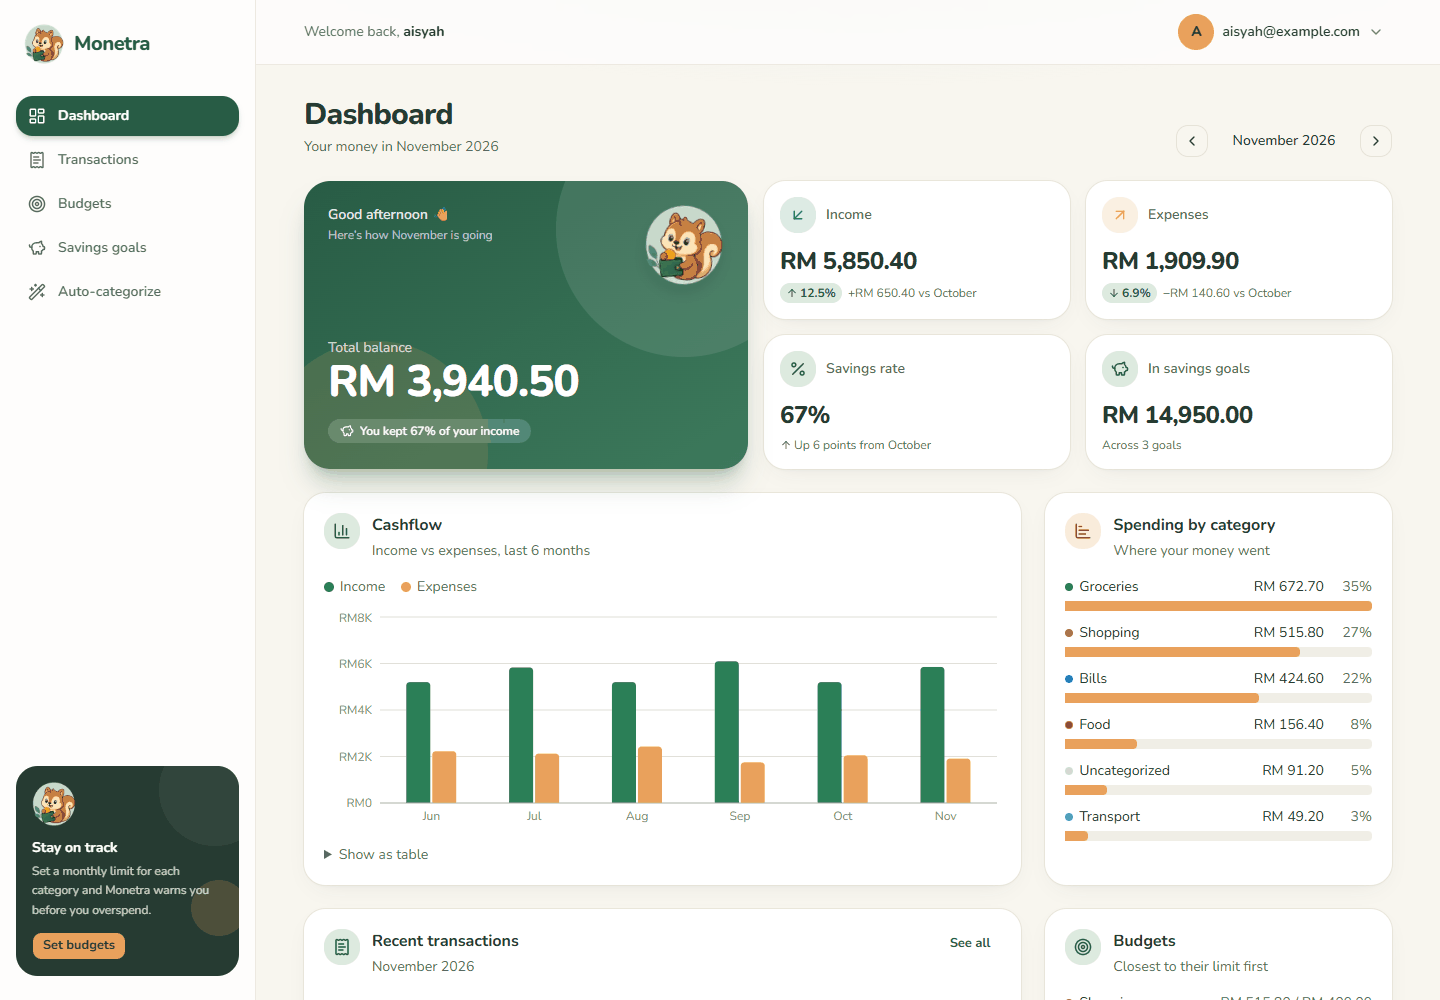
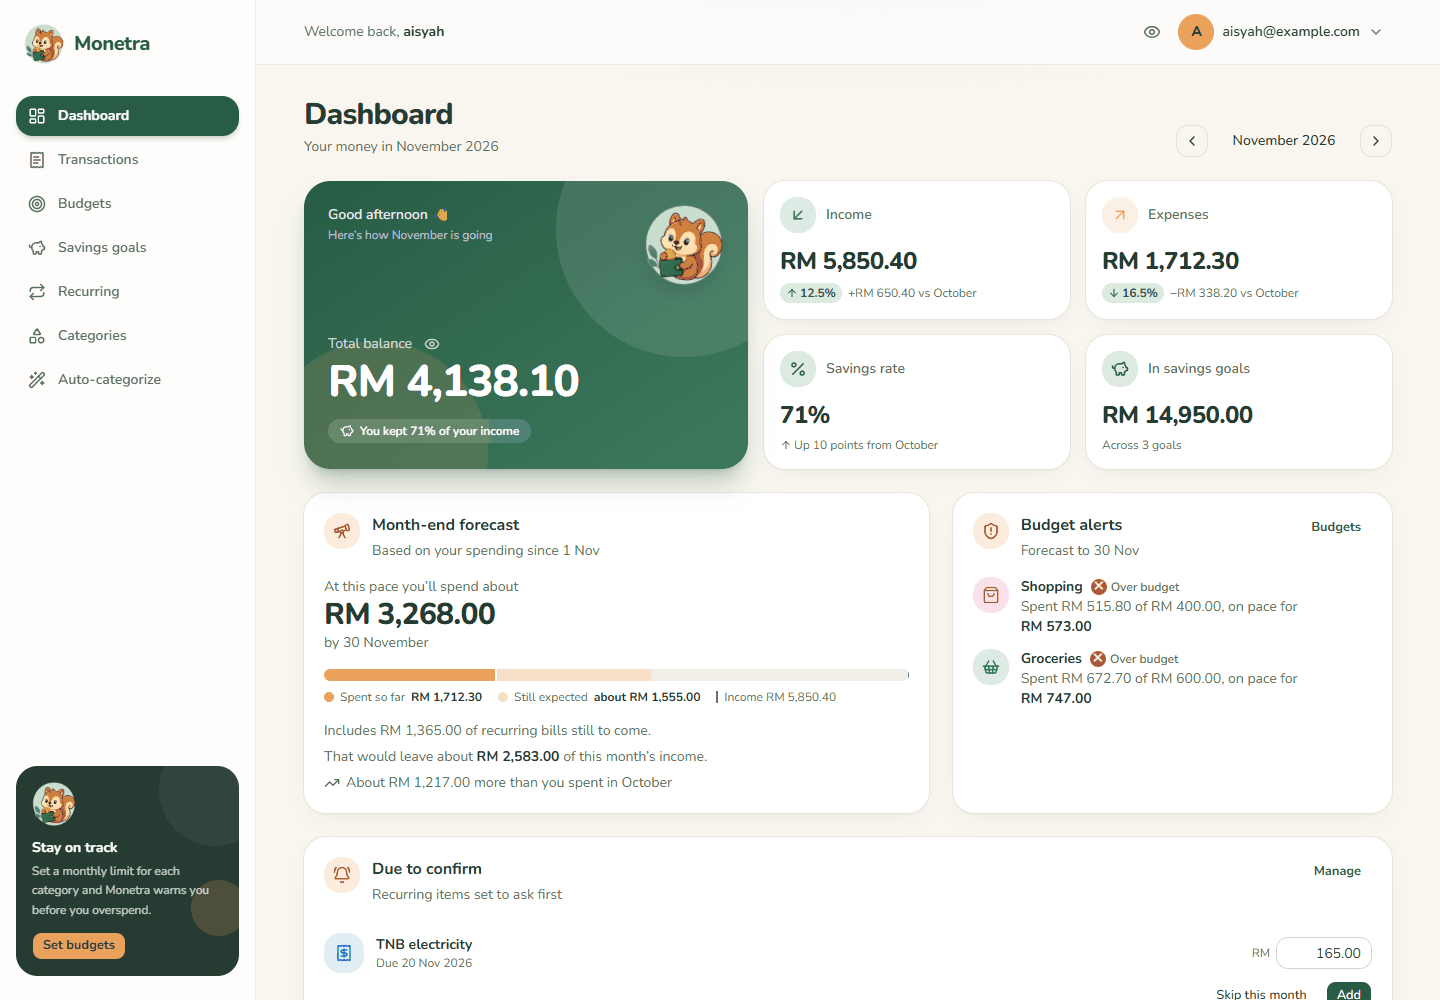
Refresh README with current features and screenshots
Regroup the features (tracking, planning, phone, comfort and privacy),
add the recurring migration note, offline testing via npm run preview,
and the updated tech stack and project structure. Replace the old
screenshots with ten new ones taken with made-up sample data, including
dark mode, the forecast, search, recurring and CSV import.

diff --git a/README.md b/README.md
@@ -3,8 +3,8 @@
 </p>
 
 <p align="center">
-  A personal expense tracker for Malaysia: log what you earn and spend in RM, set monthly budgets,
-  save towards goals, and let keyword rules categorize transactions for you.
+  A personal expense tracker for Malaysia: log what you earn and spend in RM, import bank statements,
+  set budgets, save towards goals, and see where the month is heading before it ends.
 </p>
 
 <p align="center">
@@ -14,48 +14,66 @@
 </p>
 
 <p align="center">
-  <img src="docs/screenshots/desktop-dashboard.png" alt="Monetra dashboard on desktop: balance card, income and expense tiles, cashflow chart and spending by category" width="900" />
+  <img src="docs/screenshots/desktop-dashboard.png" alt="Monetra dashboard on desktop: balance card, stat tiles, month-end forecast, budget alerts and a recurring bill to confirm" width="900" />
 </p>
 
 ## Screenshots
 
-Monetra works on desktop and phone. On a phone it can be added to the Home Screen and opens full screen like an app.
+Monetra works on desktop and phone. On a phone it installs to the Home Screen, opens full screen and keeps working offline.
 
-| Dashboard | Transactions | Budgets | Sign-out confirmation |
+| Dashboard | Month-end forecast | Search | Recurring |
 | :---: | :---: | :---: | :---: |
-| <img src="docs/screenshots/phone-dashboard.png" alt="Dashboard on a phone" width="200" /> | <img src="docs/screenshots/phone-transactions.png" alt="Transaction history with category icons" width="200" /> | <img src="docs/screenshots/phone-budgets.png" alt="Monthly budgets with progress bars" width="200" /> | <img src="docs/screenshots/phone-confirm.png" alt="Sign out confirmation dialog" width="200" /> |
+| <img src="docs/screenshots/phone-dashboard.png" alt="Dashboard on a phone" width="200" /> | <img src="docs/screenshots/phone-forecast.png" alt="Month-end forecast and budget alerts" width="200" /> | <img src="docs/screenshots/phone-search.png" alt="Searching grab across all months, with matches highlighted" width="200" /> | <img src="docs/screenshots/phone-recurring.png" alt="Recurring salary, bills and rent with auto and ask-first modes" width="200" /> |
 
-| Transactions (desktop) | Savings goals (desktop) |
-| :---: | :---: |
-| <img src="docs/screenshots/desktop-transactions.png" alt="Add transaction form beside the history list" width="440" /> | <img src="docs/screenshots/desktop-goals.png" alt="Savings goals with monthly saving plans" width="440" /> |
+| Statement import | Dark mode | Sign-in |
+| :---: | :---: | :---: |
+| <img src="docs/screenshots/phone-import.png" alt="Reviewing a bank CSV before importing, with categories filled in from rules" width="200" /> | <img src="docs/screenshots/phone-dark.png" alt="Transactions page in dark mode" width="200" /> | <img src="docs/screenshots/phone-login.png" alt="Sign-in page with Google and email options" width="200" /> |
 
 <details>
-<summary>Sign-in page</summary>
+<summary>More: dark mode on desktop, and the Categories page</summary>
 <br />
-<img src="docs/screenshots/phone-login.png" alt="Sign-in page with Google and email options" width="260" />
+<img src="docs/screenshots/desktop-dashboard-dark.png" alt="Dashboard on desktop in dark mode" width="880" />
+<br /><br />
+<img src="docs/screenshots/desktop-categories.png" alt="Categories page with a colour picker and a live icon preview" width="880" />
 </details>
 
 <sub>Screenshots use made-up sample data.</sub>
 
 ## Features
 
-- **Dashboard**: the month's balance and savings rate, income and expenses with change vs last month, a 6-month cashflow chart, spending by category, daily spending, recent transactions, budgets and goals at a glance
-- **Transactions**: add, edit and delete income and expenses, grouped by day, each with its category's icon
-- **Auto-categorization**: keyword rules (e.g. `PETRONAS` → Petrol, `GRABFOOD` → Food) pick the category as you type. Rules match whole words, can take priority over others, and can be applied to past uncategorized transactions in one go. New accounts start with rules for common Malaysian merchants
-- **Budgets**: a monthly limit per category with a progress bar, a "today" marker showing how far through the month you are, on-track / close / over status, and one-click copy from last month
-- **Savings goals**: target, deadline and progress, with how much to save each month to get there. Suggests an emergency fund of 3–6 months of your average spending
-- **Sign-in**: email and password, a magic link by email, or Google, plus password reset
-- **Installable**: add it to the Home Screen on iPhone or Android to run full screen
-- **Safe by default**: confirmation pop-ups before signing out or deleting anything, and every user can only ever read and write their own data (Postgres row-level security)
-- **Accessible charts**: the colours were checked for colour-blind readers, every chart has a "Show as table" view, and status is always shown with an icon and words, not colour alone
+### Tracking
+- **Dashboard**: the month's balance and savings rate, income and expenses with change vs last month, a 6-month cashflow chart, spending by category (tap a category to see its transactions), daily spending, recent transactions, budgets and goals
+- **Transactions**: add, edit and delete income and expenses, grouped by day with category icons. **Search** descriptions across every month, and filter by category, expense or income
+- **Import bank statements (CSV)**: works with Maybank, CIMB, Touch ’n Go eWallet and other exports. Monetra finds the columns, reads Malaysian dates and amounts (`1,234.50`, `12.00-`, `CR`/`DR`), and lets you review everything before saving. Importing the same file twice never creates duplicates
+- **Recurring transactions**: salary, rent and bills are added every month automatically, or shown on the dashboard to confirm when the amount changes (like TNB). Missed months are caught up, and nothing is ever added twice
+- **Export to CSV**: download all your data, or exactly what's on screen, for a backup or a spreadsheet. Monetra can import its own export back
+
+### Planning
+- **Month-end forecast**: "at this pace you'll spend about RM X this month", worked out from your everyday spending rate plus the recurring bills still to come
+- **Budgets**: a monthly limit per category with a "today" marker, an on-pace forecast, and **alerts before you go over**
+- **Savings goals**: target, deadline and progress, with how much to save each month. Suggests an emergency fund of 3–6 months of your average spending
+- **Categories and auto-categorization**: create, rename and recolour categories, and an icon is picked from the name. Keyword rules (e.g. `PETRONAS` → Petrol) categorize new and imported transactions, and new accounts start with rules for common Malaysian merchants
+
+### On your phone
+- **Installable**: add it to the Home Screen and it opens full screen with a splash screen and a floating tab bar
+- **Offline**: opens instantly with no signal and shows your last-loaded data. Transactions you add offline are saved on the phone and sync when you're back online
+- **Pull to refresh**, and pages that load quickly, because each page downloads only when it's opened
+
+### Comfort and privacy
+- **Dark mode**: Light, Dark or System (follows your phone)
+- **Hide amounts**: one tap turns every RM figure into `RM ••••` for using the app in public
+- **Undo** instead of "Are you sure?" for deletes. Signing out and deleting a category still ask first
+- **Private by design**: Postgres row-level security means every user can only read and write their own data. The copy kept for offline use is deleted when you sign out
+- **Accessible charts**: chart colours are checked for colour-blind readers in both light and dark mode, every chart has a "Show as table" view, and status is always shown with an icon and words
 
 ## Tech stack
 
 | Area | Tools |
 | --- | --- |
 | Frontend | [React 19](https://react.dev), TypeScript, [Vite](https://vite.dev), React Router |
-| UI | [Tailwind CSS v4](https://tailwindcss.com), [shadcn/ui](https://ui.shadcn.com) (Radix), [Lucide](https://lucide.dev) icons, Nunito font |
-| Charts | [Recharts](https://recharts.org), date-fns |
+| UI | [Tailwind CSS v4](https://tailwindcss.com), [shadcn/ui](https://ui.shadcn.com) (Radix), [Lucide](https://lucide.dev) icons, [Sonner](https://sonner.emilkowal.ski) toasts, Nunito font |
+| Charts and data | [Recharts](https://recharts.org), date-fns, [Papa Parse](https://www.papaparse.com) for CSV |
+| Offline | [vite-plugin-pwa](https://vite-pwa-org.netlify.app) (Workbox service worker) |
 | Backend | [Supabase](https://supabase.com): Postgres, Auth and row-level security |
 | Hosting | [Vercel](https://vercel.com), plus a GitHub Actions job that keeps the free Supabase project awake |
 
@@ -70,9 +88,11 @@ Monetra works on desktop and phone. On a phone it can be added to the Home Scree
 
 In the Supabase dashboard, open **SQL Editor → New query**, paste in [`supabase/schema.sql`](supabase/schema.sql) and click **Run**. This creates:
 
-- the tables (`categories`, `transactions`, `category_rules`, `budgets`, `savings_goals`)
+- the tables (`categories`, `transactions`, `category_rules`, `budgets`, `savings_goals`, `recurring_transactions`)
 - row-level security, so each user only sees their own rows
 - a trigger that gives every new user default categories and merchant rules
+
+> **Already set up from an older version?** Run [`supabase/migrations/20261127_recurring_transactions.sql`](supabase/migrations/20261127_recurring_transactions.sql) once to add recurring transactions. Until then, the Recurring page shows these steps and the rest of the app works as normal.
 
 ### 3. Configure and run
 
@@ -104,9 +124,9 @@ Open http://localhost:5173 and create an account.
 
 | Command | What it does |
 | --- | --- |
-| `npm run dev` | Start the dev server with hot reload |
-| `npm run build` | Type-check and build for production into `dist/` |
-| `npm run preview` | Serve the production build locally |
+| `npm run dev` | Start the dev server with hot reload (the offline service worker is off here) |
+| `npm run build` | Type-check and build for production into `dist/`, including the service worker |
+| `npm run preview` | Serve the production build locally. Use this to try offline mode |
 | `npm run lint` | Lint with Oxlint |
 
 ## Deploying
@@ -115,7 +135,7 @@ Open http://localhost:5173 and create an account.
 2. Add `VITE_SUPABASE_URL` and `VITE_SUPABASE_ANON_KEY` as environment variables.
 3. Add the deployed URL to Supabase's **Redirect URLs**.
 
-[`vercel.json`](vercel.json) sends every path to `index.html`, so routes like `/budgets` still work when you refresh the page.
+[`vercel.json`](vercel.json) sends every path to `index.html`, so routes like `/budgets` still work when you refresh the page. When a new version is deployed, open copies of the app show a **Reload** prompt instead of refreshing mid-task.
 
 ### Keeping the free Supabase project awake
 
@@ -125,14 +145,18 @@ Supabase pauses free projects after about a week without activity. The workflow 
 
 ```text
 src/
-├── pages/           Dashboard, Transactions, Budgets, Goals, Rules, Account, Login
-├── components/      Layout (sidebar + phone tab bar), cards, forms, ConfirmDialog
+├── pages/           Dashboard, Transactions, Import, Recurring, Budgets, Goals, Categories, Rules, Account, Login
+│                    (each loads on demand)
+├── components/      Layout (sidebar + phone tab bar), cards, forms, forecast, pull-to-refresh, dialogs
 │   ├── charts/      Cashflow, daily spending and category breakdown
 │   └── ui/          shadcn/ui components
-├── hooks/           Data hooks (useTransactions, useBudgets, useSavingsGoals, …)
-├── lib/             Supabase client, formatting, budget/goal maths, categorization rules
+├── hooks/           Data hooks (useTransactions, useTransactionSearch, useRecurring, useBudgets, …)
+├── lib/             Supabase client and money logic: forecast, recurring dates, CSV import/export,
+│                    categorization rules, offline outbox, theme, hide-amounts, undo
 ├── auth/            Session context and the route guard
 └── assets/          Monetra logos
-supabase/schema.sql  Database tables, security policies and new-user defaults
+supabase/
+├── schema.sql       Database tables, security policies and new-user defaults
+└── migrations/      Changes for databases created from an older schema
 public/              Favicon, app icons and the web app manifest
 ```
